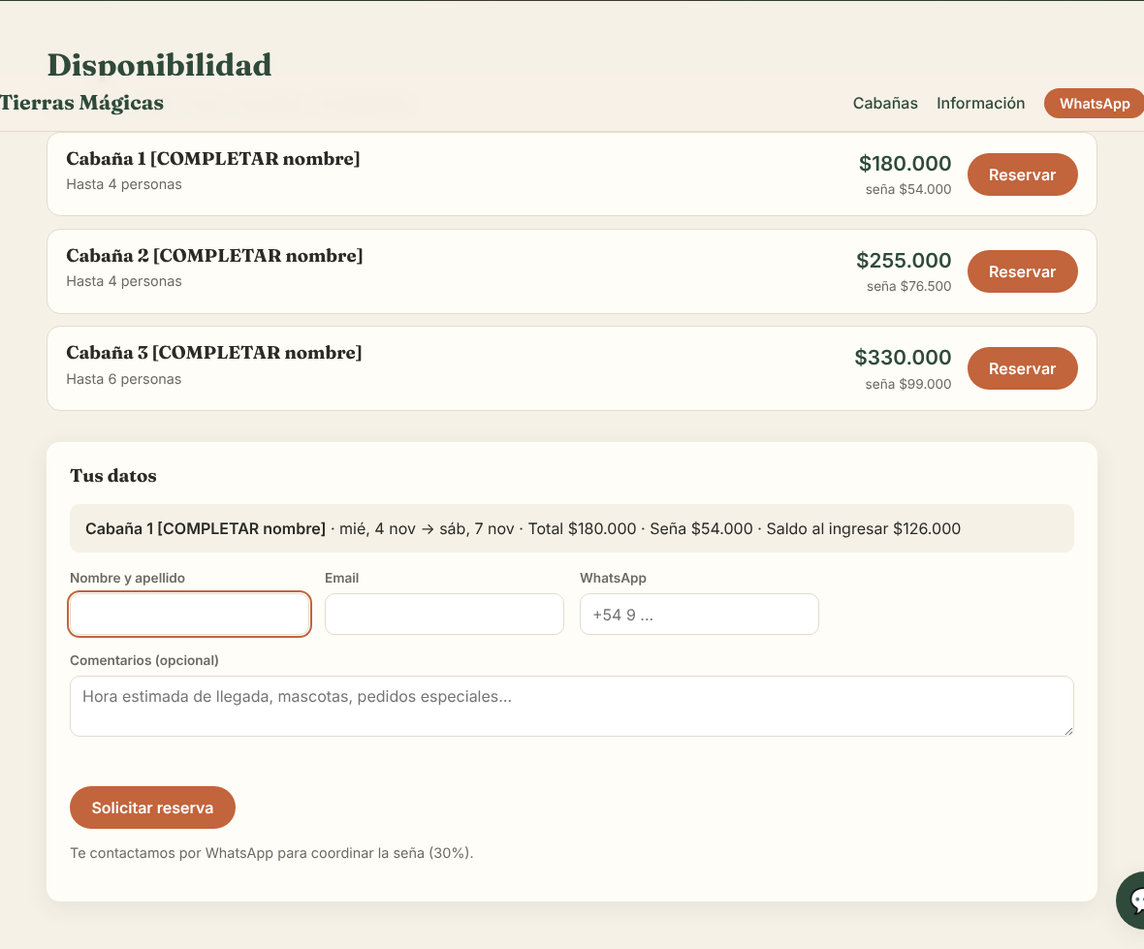
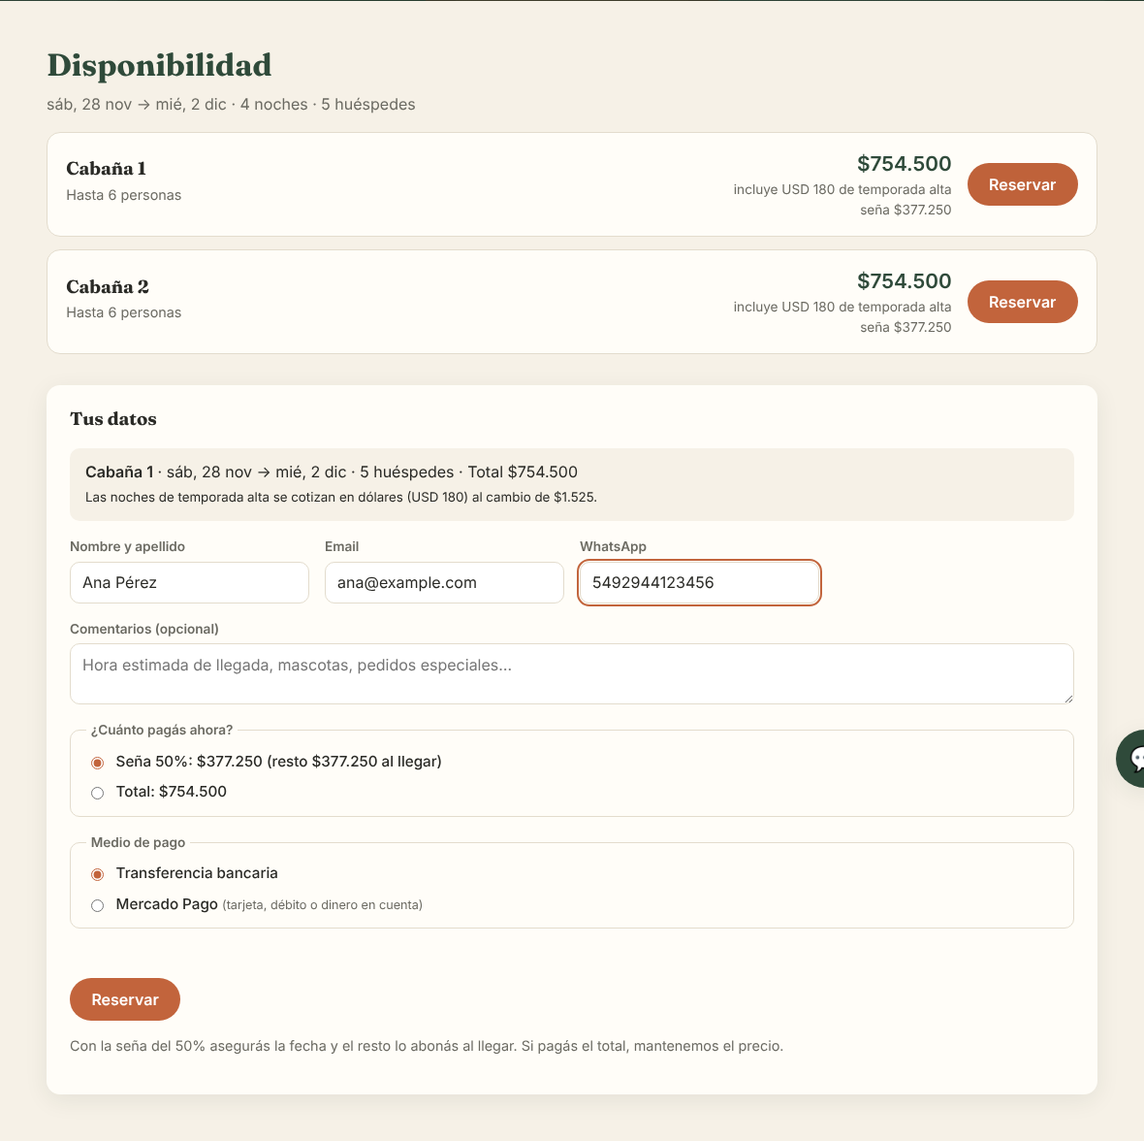
Cargar tarifas reales, seña 50%/pago total y pago por transferencia
- Precio por temporada y cantidad de personas; temporada alta en USD convertida a pesos
- Elección entre seña del 50% o pago total, y entre transferencia o Mercado Pago
- Página de reserva con datos de transferencia y envío de comprobante por WhatsApp
- Secciones de preguntas frecuentes y cómo llegar

Claude-Session: https://claude.ai/code/session_01WZL8qUcGTLzeMQHz79q8xY

diff --git a/src/reservas.js b/src/reservas.js
@@ -4,6 +4,7 @@ import { config, env, cabanaPorId } from "./config.js";
 
 // Con Mercado Pago, una reserva web sin pagar retiene las fechas durante este tiempo.
 // Sin Mercado Pago (modo demo) la solicitud retiene las fechas hasta que el dueño la confirma o cancela.
+// Por transferencia, retiene las fechas durante negocio.retencion_transferencia_horas.
 const RETENCION_PENDIENTE_MIN = 30;
 
 export function hoyISO() {
@@ -24,24 +25,45 @@ function esFecha(s) {
   return typeof s === "string" && /^\d{4}-\d{2}-\d{2}$/.test(s) && !isNaN(new Date(s + "T12:00:00Z"));
 }
 
-function multiplicadorTemporada(fechaISO) {
+function temporada(fechaISO) {
   const md = fechaISO.slice(5); // MM-DD
   for (const t of config.temporadas || []) {
     const dentro = t.desde <= t.hasta ? md >= t.desde && md <= t.hasta : md >= t.desde || md <= t.hasta;
-    if (dentro) return t.multiplicador;
+    if (dentro) return t.id;
   }
-  return 1;
+  return "baja";
+}
+
+// Precio de una noche según temporada y cantidad de huéspedes, en la moneda de la tarifa
+function tarifaNoche(cabana, fechaISO, huespedes) {
+  const tarifas = cabana.tarifas[temporada(fechaISO)] || cabana.tarifas.baja;
+  const escala = tarifas.por_ocupacion.find((e) => huespedes <= e.hasta) || tarifas.por_ocupacion.at(-1);
+  return { moneda: tarifas.moneda, precio: escala.precio };
+}
+
+export function aPesos({ moneda, precio }) {
+  return moneda === "USD" ? Math.round(precio * config.negocio.tipo_cambio_usd) : precio;
+}
+
+// Precio de referencia por noche para mostrar ("desde")
+export function preciosReferencia(cabana) {
+  return Object.fromEntries(
+    Object.entries(cabana.tarifas).map(([t, v]) => [t, { moneda: v.moneda, desde: v.por_ocupacion[0].precio, hasta: v.por_ocupacion.at(-1).precio }])
+  );
 }
 
 export function cotizar(cabana, checkin, checkout, huespedes) {
   let total = 0;
+  let totalUsd = 0;
+  const nochesPor = { alta: 0, baja: 0 };
   for (let f = checkin; f < checkout; f = sumarDias(f, 1)) {
-    total += cabana.precio_noche * multiplicadorTemporada(f);
+    const t = tarifaNoche(cabana, f, huespedes);
+    total += aPesos(t);
+    if (t.moneda === "USD") totalUsd += t.precio;
+    nochesPor[temporada(f) === "baja" ? "baja" : "alta"]++;
   }
-  const extra = Math.max(0, huespedes - 2) * (cabana.precio_huesped_extra || 0) * noches(checkin, checkout);
-  total = Math.round(total + extra);
   const sena = Math.round((total * config.negocio.sena_porcentaje) / 100);
-  return { noches: noches(checkin, checkout), total, sena, saldo: total - sena };
+  return { noches: noches(checkin, checkout), total, sena, saldo: total - sena, total_usd: totalUsd || null, noches_alta: nochesPor.alta, noches_baja: nochesPor.baja };
 }
 
 // Devuelve los rangos ocupados de una cabaña (reservas activas + bloqueos importados/manuales)
@@ -50,9 +72,11 @@ export function ocupaciones(cabanaId, excluirReservaId = null) {
     .prepare(
       `SELECT id, checkin AS desde, checkout AS hasta, estado, nombre, 'web' AS origen FROM reservas
        WHERE cabana_id = ? AND (estado = 'confirmada'
-         OR (estado = 'pendiente_pago' AND (origen = 'manual' OR ? OR creada > datetime('now', ?))))`
+         OR (estado = 'pendiente_pago' AND (origen = 'manual'
+           OR (metodo_pago = 'transferencia' AND creada > datetime('now', ?))
+           OR (metodo_pago = 'mercadopago' AND (? OR creada > datetime('now', ?))))))`
     )
-    .all(cabanaId, env.mpAccessToken ? 0 : 1, `-${RETENCION_PENDIENTE_MIN} minutes`)
+    .all(cabanaId, `-${config.negocio.retencion_transferencia_horas || 48} hours`, env.mpAccessToken ? 0 : 1, `-${RETENCION_PENDIENTE_MIN} minutes`)
     .filter((r) => r.id !== excluirReservaId);
   const bloqueos = db.prepare(`SELECT desde, hasta, origen, resumen FROM bloqueos WHERE cabana_id = ?`).all(cabanaId);
   return [...reservas, ...bloqueos];
@@ -96,7 +120,7 @@ export function buscarDisponibilidad(checkin, checkout, huespedes) {
   };
 }
 
-export function crearReserva({ cabanaId, checkin, checkout, huespedes, nombre, email, telefono, notas, origen = "web" }) {
+export function crearReserva({ cabanaId, checkin, checkout, huespedes, nombre, email, telefono, notas, origen = "web", metodoPago = "mercadopago", modalidad = "sena" }) {
   const cabana = cabanaPorId(cabanaId);
   if (!cabana) throw new Error("Cabaña inexistente.");
   const error = validarRango(checkin, checkout);
@@ -108,17 +132,21 @@ export function crearReserva({ cabanaId, checkin, checkout, huespedes, nombre, e
   if (!nombre?.trim()) throw new Error("Falta el nombre.");
 
   const id = "TM-" + crypto.randomBytes(3).toString("hex").toUpperCase();
-  const { total, sena } = cotizar(cabana, checkin, checkout, huespedes);
+  if (!["mercadopago", "transferencia"].includes(metodoPago)) throw new Error("Medio de pago inválido.");
+  if (modalidad === "total" && !config.negocio.permite_pago_total) modalidad = "sena";
+  const cot = cotizar(cabana, checkin, checkout, huespedes);
+  const total = cot.total;
+  const sena = modalidad === "total" ? cot.total : cot.sena; // monto a pagar ahora
 
   // Verificación + inserción atómica para evitar doble reserva
   db.exec("BEGIN IMMEDIATE");
   try {
     if (!estaLibre(cabanaId, checkin, checkout)) throw new Error("Las fechas elegidas ya no están disponibles.");
     db.prepare(
-      `INSERT INTO reservas (id, cabana_id, checkin, checkout, huespedes, nombre, email, telefono, total, sena, estado, origen, notas)
-       VALUES (?, ?, ?, ?, ?, ?, ?, ?, ?, ?, ?, ?, ?)`
+      `INSERT INTO reservas (id, cabana_id, checkin, checkout, huespedes, nombre, email, telefono, total, sena, estado, origen, notas, metodo_pago, modalidad)
+       VALUES (?, ?, ?, ?, ?, ?, ?, ?, ?, ?, ?, ?, ?, ?, ?)`
     ).run(id, cabanaId, checkin, checkout, huespedes, nombre.trim(), email || null, telefono || null, total, sena,
-      origen === "manual" ? "confirmada" : "pendiente_pago", origen, notas || null);
+      origen === "manual" ? "confirmada" : "pendiente_pago", origen, notas || null, origen === "manual" ? null : metodoPago, modalidad);
     db.exec("COMMIT");
   } catch (e) {
     db.exec("ROLLBACK");
@@ -150,6 +178,7 @@ function generarTareas(reservaId) {
   const yaExisten = db.prepare("SELECT COUNT(*) AS n FROM tareas WHERE reserva_id = ?").get(reservaId).n;
   if (yaExisten) return;
   const ins = db.prepare("INSERT INTO tareas (cabana_id, fecha, tipo, descripcion, reserva_id) VALUES (?, ?, ?, ?, ?)");
-  ins.run(r.cabana_id, r.checkin, "check-in", `Recibir a ${r.nombre} (${r.huespedes} pers.) — cobrar saldo $${(r.total - r.sena).toLocaleString("es-AR")}`, r.id);
+  const saldo = r.total - r.sena;
+  ins.run(r.cabana_id, r.checkin, "check-in", `Recibir a ${r.nombre} (${r.huespedes} pers.) — ${saldo > 0 ? `cobrar saldo $${saldo.toLocaleString("es-AR")}` : "pagado en su totalidad"}`, r.id);
   ins.run(r.cabana_id, r.checkout, "limpieza", `Limpieza tras salida de ${r.nombre}`, r.id);
 }

diff --git a/src/server.js b/src/server.js
@@ -3,7 +3,7 @@ import crypto from "node:crypto";
 import { config, env, cabanaPorId } from "./config.js";
 import { db } from "./db.js";
 import {
-  buscarDisponibilidad, crearReserva, obtenerReserva, confirmarReserva, cancelarReserva, ocupaciones, hoyISO, sumarDias, validarRango,
+  buscarDisponibilidad, crearReserva, obtenerReserva, confirmarReserva, cancelarReserva, ocupaciones, hoyISO, sumarDias, validarRango, preciosReferencia,
 } from "./reservas.js";
 import { sincronizarTodo, exportarICal } from "./ical.js";
 import { mpActivo, crearPreferencia, obtenerPago } from "./mercadopago.js";
@@ -37,9 +37,12 @@ app.get("/api/info", (req, res) => {
   const { negocio } = config;
   res.json({
     negocio: { nombre: negocio.nombre, eslogan: negocio.eslogan, ubicacion: negocio.ubicacion, whatsapp: negocio.whatsapp,
-      instagram: negocio.instagram, check_in: negocio.check_in, check_out: negocio.check_out, sena_porcentaje: negocio.sena_porcentaje,
-      politicas: negocio.politicas, servicios: negocio.servicios },
-    cabanas: config.cabanas.map(({ ical_importar, ...c }) => c),
+      instagram: negocio.instagram, facebook: negocio.facebook, google_maps: negocio.google_maps, check_in: negocio.check_in,
+      check_out: negocio.check_out, sena_porcentaje: negocio.sena_porcentaje, permite_pago_total: negocio.permite_pago_total,
+      tipo_cambio_usd: negocio.tipo_cambio_usd, politicas: negocio.politicas, servicios: negocio.servicios, como_llegar: negocio.como_llegar,
+      preguntas_frecuentes: negocio.preguntas_frecuentes },
+    temporadas: config.temporadas,
+    cabanas: config.cabanas.map(({ ical_importar, tarifas, ...c }) => ({ ...c, precios: preciosReferencia({ tarifas }) })),
     hoy: hoyISO(),
     pagoOnline: mpActivo(),
   });
@@ -58,11 +61,11 @@ app.get("/api/ocupacion/:cabanaId", (req, res) => {
 
 app.post("/api/reservas", limitar(5), async (req, res) => {
   try {
-    const { cabanaId, checkin, checkout, huespedes, nombre, email, telefono, notas } = req.body || {};
+    const { cabanaId, checkin, checkout, huespedes, nombre, email, telefono, notas, metodoPago, modalidad } = req.body || {};
     if (!email || !/^\S+@\S+\.\S+$/.test(email)) throw new Error("Ingresá un email válido.");
     if (!telefono || String(telefono).replace(/\D/g, "").length < 8) throw new Error("Ingresá un teléfono / WhatsApp válido.");
-    const reserva = crearReserva({ cabanaId, checkin, checkout, huespedes, nombre, email, telefono, notas });
-    if (mpActivo()) {
+    const reserva = crearReserva({ cabanaId, checkin, checkout, huespedes, nombre, email, telefono, notas, metodoPago, modalidad });
+    if (reserva.metodo_pago === "mercadopago" && mpActivo()) {
       const pref = await crearPreferencia(reserva);
       db.prepare("UPDATE reservas SET mp_preference_id = ? WHERE id = ?").run(pref.id, reserva.id);
       return res.json({ reserva: reserva.id, pagarEn: pref.init_point });
@@ -91,23 +94,34 @@ app.get("/reserva/:id", async (req, res) => {
   }
   const c = cabanaPorId(r.cabana_id);
   const n = config.negocio;
+  const t = n.transferencia || {};
+  const porTransferencia = r.metodo_pago === "transferencia" || (r.metodo_pago === "mercadopago" && !mpActivo());
+  const concepto = r.modalidad === "total" ? "el total" : `la seña (${n.sena_porcentaje}%)`;
   const estado = {
     confirmada: ["✅ Reserva confirmada", "¡Te esperamos! Te escribimos por WhatsApp unos días antes con las indicaciones de llegada."],
-    pendiente_pago: mpActivo()
-      ? ["⏳ Pago pendiente", "Todavía no recibimos la confirmación del pago. Si ya pagaste, puede tardar unos minutos."]
-      : ["📝 Solicitud recibida", "Te contactamos por WhatsApp para coordinar el pago de la seña y confirmar la reserva."],
+    pendiente_pago: porTransferencia
+      ? ["📝 Reserva pendiente de pago", `Para confirmarla, transferí ${concepto} y envianos el comprobante por WhatsApp. Guardamos las fechas durante ${n.retencion_transferencia_horas || 48} horas.`]
+      : ["⏳ Pago pendiente", "Todavía no recibimos la confirmación del pago. Si ya pagaste, puede tardar unos minutos."],
     cancelada: ["❌ Reserva cancelada", "Si creés que es un error, escribinos."],
   }[r.estado];
-  const msj = encodeURIComponent(`Hola! Tengo la reserva ${r.id} en ${c.nombre} del ${r.checkin} al ${r.checkout}.`);
+  const msj = encodeURIComponent(`Hola! Tengo la reserva ${r.id} en ${c.nombre} del ${r.checkin} al ${r.checkout}.${r.estado === "pendiente_pago" && porTransferencia ? " Te envío el comprobante de la transferencia." : ""}`);
+  const datosTransferencia = r.estado === "pendiente_pago" && porTransferencia
+    ? `<div class="transferencia"><h2>Datos para transferir ${pesos(r.sena)}</h2><dl>
+<dt>Alias</dt><dd>${esc(t.alias)}</dd><dt>CBU</dt><dd>${esc(t.cbu)}</dd><dt>Titular</dt><dd>${esc(t.titular)}</dd><dt>Banco</dt><dd>${esc(t.banco)}</dd>
+<dt>Concepto</dt><dd>Reserva ${esc(r.id)}</dd></dl></div>`
+    : "";
   res.send(`<!doctype html><html lang="es"><head><meta charset="utf-8"><meta name="viewport" content="width=device-width,initial-scale=1">
-<title>Reserva ${esc(r.id)} · ${esc(n.nombre)}</title><link rel="stylesheet" href="/estilos.css"></head>
+<title>Reserva ${esc(r.id)} · ${esc(n.nombre)}</title>
+<link href="https://fonts.googleapis.com/css2?family=Fraunces:opsz,wght@9..144,700&family=Inter:wght@400;500;600&display=swap" rel="stylesheet"><link rel="stylesheet" href="/estilos.css"></head>
 <body class="pagina-reserva"><main class="tarjeta">
 <a href="/" class="marca">${esc(n.nombre)}</a>
 <h1>${estado[0]}</h1><p>${estado[1]}</p>
+${datosTransferencia}
 <dl><dt>Código</dt><dd>${esc(r.id)}</dd><dt>Cabaña</dt><dd>${esc(c.nombre)}</dd>
-<dt>Ingreso</dt><dd>${esc(r.checkin)} desde ${esc(n.check_in)}</dd><dt>Salida</dt><dd>${esc(r.checkout)} hasta ${esc(n.check_out)}</dd>
-<dt>Huéspedes</dt><dd>${r.huespedes}</dd><dt>Total</dt><dd>${pesos(r.total)}</dd><dt>Seña</dt><dd>${pesos(r.sena)}</dd><dt>Saldo al ingresar</dt><dd>${pesos(r.total - r.sena)}</dd></dl>
-<a class="boton" href="https://wa.me/${esc(n.whatsapp)}?text=${msj}">Escribinos por WhatsApp</a>
+<dt>Ingreso</dt><dd>${esc(r.checkin)} desde las ${esc(n.check_in)}</dd><dt>Salida</dt><dd>${esc(r.checkout)} hasta las ${esc(n.check_out)}</dd>
+<dt>Huéspedes</dt><dd>${r.huespedes}</dd><dt>Total</dt><dd>${pesos(r.total)}</dd>
+<dt>${r.modalidad === "total" ? "Pago total" : "Seña"}</dt><dd>${pesos(r.sena)}</dd><dt>Saldo al ingresar</dt><dd>${pesos(r.total - r.sena)}</dd></dl>
+<a class="boton" href="https://wa.me/${esc(n.whatsapp)}?text=${msj}">${r.estado === "pendiente_pago" && porTransferencia ? "Enviar comprobante por WhatsApp" : "Escribinos por WhatsApp"}</a>
 </main></body></html>`);
 });
 

diff --git a/public/app.js b/public/app.js
@@ -16,13 +16,15 @@ async function iniciar() {
   $("#btn-wa-header").href = wa;
   $("#btn-wa-pie").href = wa;
   $("#link-ig").href = `https://instagram.com/${n.instagram}`;
+  $("#link-fb").href = `https://facebook.com/${n.facebook}`;
+  $("#link-maps").href = n.google_maps;
+  $("#como-llegar").textContent = n.como_llegar.replace(/\s*Ubicación en Google Maps:.*$/, "");
+  $("#preguntas").innerHTML = n.preguntas_frecuentes.map((f) => `<details><summary>${esc(f.p)}</summary><p>${esc(f.r)}</p></details>`).join("");
+  $("#op-modalidad").hidden = !n.permite_pago_total;
   $("#servicios").innerHTML = n.servicios.map((s) => `<li>${esc(s)}</li>`).join("");
   $("#politicas").innerHTML = n.politicas.map((s) => `<li>${esc(s)}</li>`).join("");
   $("#horarios").textContent = `Check-in desde las ${n.check_in} · Check-out hasta las ${n.check_out}`;
-  $("#nota-pago").textContent = info.pagoOnline
-    ? `Pagás ahora el ${n.sena_porcentaje}% con Mercado Pago y el saldo al llegar.`
-    : `Te contactamos por WhatsApp para coordinar la seña (${n.sena_porcentaje}%).`;
-  $("#btn-pagar").textContent = info.pagoOnline ? "Pagar seña con Mercado Pago" : "Solicitar reserva";
+  $("#nota-pago").textContent = `Con la seña del ${n.sena_porcentaje}% asegurás la fecha y el resto lo abonás al llegar. Si pagás el total, mantenemos el precio.`;
 
   $("#grilla-cabanas").innerHTML = info.cabanas
     .map(
@@ -32,7 +34,8 @@ async function iniciar() {
           <h3>${esc(c.nombre)}</h3>
           <p>${esc(c.descripcion)}</p>
           <p class="meta">Hasta ${c.capacidad} personas · mínimo ${c.minimo_noches} noches</p>
-          <p class="precio">desde <strong>${pesos(c.precio_noche)}</strong> / noche</p>
+          <p class="precio">Temporada baja: <strong>${pesos(c.precios.baja.desde)}</strong> / noche${c.precios.baja.hasta !== c.precios.baja.desde ? ` <small>(${pesos(c.precios.baja.hasta)} de 5 a 6 personas)</small>` : ""}</p>
+          ${c.precios.alta ? `<p class="precio">Temporada alta: <strong>${c.precios.alta.moneda === "USD" ? "USD " + c.precios.alta.desde : pesos(c.precios.alta.desde)}</strong> / noche</p>` : ""}
         </div>
       </article>`
     )
@@ -83,7 +86,7 @@ async function buscar() {
               <div><h3>${esc(c.nombre)}</h3><p class="meta">Hasta ${c.capacidad} personas</p></div>
               ${
                 c.disponible
-                  ? `<div class="monto"><strong>${pesos(c.total)}</strong><span>seña ${pesos(c.sena)}</span></div>
+                  ? `<div class="monto"><strong>${pesos(c.total)}</strong>${c.total_usd ? `<span>incluye USD ${c.total_usd} de temporada alta</span>` : ""}<span>seña ${pesos(c.sena)}</span></div>
                      <button class="boton" data-elegir="${esc(c.id)}">Reservar</button>`
                   : `<div class="monto"><span>No disponible (${esc(c.motivo)})</span></div>`
               }
@@ -104,7 +107,10 @@ $("#resultados").addEventListener("click", (e) => {
   const id = e.target.dataset?.elegir;
   if (!id) return;
   eleccion = busqueda.cabanas.find((c) => c.id === id);
-  $("#detalle-eleccion").innerHTML = `<strong>${esc(eleccion.nombre)}</strong> · ${fechaLarga(busqueda.checkin)} → ${fechaLarga(busqueda.checkout)} · Total ${pesos(eleccion.total)} · Seña ${pesos(eleccion.sena)} · Saldo al ingresar ${pesos(eleccion.saldo)}`;
+  $("#detalle-eleccion").innerHTML = `<strong>${esc(eleccion.nombre)}</strong> · ${fechaLarga(busqueda.checkin)} → ${fechaLarga(busqueda.checkout)} · ${busqueda.huespedes} huéspedes · Total ${pesos(eleccion.total)}` +
+    (eleccion.total_usd ? `<br><small>Las noches de temporada alta se cotizan en dólares (USD ${eleccion.total_usd}) al cambio de ${pesos(info.negocio.tipo_cambio_usd)}.</small>` : "");
+  $("#txt-sena").textContent = `Seña ${info.negocio.sena_porcentaje}%: ${pesos(eleccion.sena)} (resto ${pesos(eleccion.saldo)} al llegar)`;
+  $("#txt-total").textContent = `Total: ${pesos(eleccion.total)}`;
   const form = $("#form-reserva");
   form.hidden = false;
   form.scrollIntoView({ behavior: "smooth" });
@@ -124,6 +130,7 @@ $("#form-reserva").addEventListener("submit", async (e) => {
       body: JSON.stringify({
         cabanaId: eleccion.id, checkin: busqueda.checkin, checkout: busqueda.checkout, huespedes: busqueda.huespedes,
         nombre: f.nombre.value, email: f.email.value, telefono: f.telefono.value, notas: f.notas.value,
+        metodoPago: f.metodoPago.value, modalidad: f.modalidad.value,
       }),
     }).then((r) => r.json());
     if (res.error) throw new Error(res.error);

diff --git a/public/index.html b/public/index.html
@@ -15,6 +15,7 @@
     <nav>
       <a href="#cabanas">Cabañas</a>
       <a href="#info">Información</a>
+      <a href="#llegar">Cómo llegar</a>
       <a class="boton chico" id="btn-wa-header" target="_blank" rel="noopener">WhatsApp</a>
     </nav>
   </header>
@@ -49,8 +50,18 @@
           <label>WhatsApp<input name="telefono" type="tel" required autocomplete="tel" placeholder="+54 9 ..."></label>
           <label class="ancho">Comentarios (opcional)<textarea name="notas" rows="2" placeholder="Hora estimada de llegada, mascotas, pedidos especiales…"></textarea></label>
         </div>
+        <fieldset class="opciones" id="op-modalidad">
+          <legend>¿Cuánto pagás ahora?</legend>
+          <label class="opcion"><input type="radio" name="modalidad" value="sena" checked><span id="txt-sena">Seña</span></label>
+          <label class="opcion"><input type="radio" name="modalidad" value="total"><span id="txt-total">Total</span></label>
+        </fieldset>
+        <fieldset class="opciones">
+          <legend>Medio de pago</legend>
+          <label class="opcion"><input type="radio" name="metodoPago" value="transferencia" checked><span>Transferencia bancaria</span></label>
+          <label class="opcion"><input type="radio" name="metodoPago" value="mercadopago"><span>Mercado Pago <small>(tarjeta, débito o dinero en cuenta)</small></span></label>
+        </fieldset>
         <p class="error" id="error-reserva" role="alert"></p>
-        <button class="boton" type="submit" id="btn-pagar">Pagar seña</button>
+        <button class="boton" type="submit" id="btn-pagar">Reservar</button>
         <p class="nota" id="nota-pago"></p>
       </form>
     </section>
@@ -71,11 +82,22 @@
         <ul id="politicas"></ul>
       </div>
     </section>
+
+    <section id="faq" class="seccion">
+      <h2>Preguntas frecuentes</h2>
+      <div id="preguntas" class="preguntas"></div>
+    </section>
+
+    <section id="llegar" class="seccion">
+      <h2>Cómo llegar</h2>
+      <p id="como-llegar"></p>
+      <a class="boton sec" id="link-maps" target="_blank" rel="noopener">Ver en Google Maps</a>
+    </section>
   </main>
 
   <footer class="pie">
     <p><span data-negocio="nombre"></span> · <span data-negocio="ubicacion"></span></p>
-    <p><a id="btn-wa-pie" target="_blank" rel="noopener">WhatsApp</a> · <a id="link-ig" target="_blank" rel="noopener">Instagram</a></p>
+    <p><a id="btn-wa-pie" target="_blank" rel="noopener">WhatsApp</a> · <a id="link-ig" target="_blank" rel="noopener">Instagram</a> · <a id="link-fb" target="_blank" rel="noopener">Facebook</a></p>
   </footer>
 
   <!-- Chat con asistente -->

diff --git a/src/asistente.js b/src/asistente.js
@@ -34,13 +34,15 @@ function sistema(modo) {
     ubicacion: n.ubicacion,
     check_in: n.check_in,
     check_out: n.check_out,
-    sena: `${n.sena_porcentaje}% para confirmar, pagable con Mercado Pago`,
+    pago: `Seña del ${n.sena_porcentaje}% para asegurar la fecha (o un día de adelanto) y el resto al llegar; también se puede pagar el total y se mantiene el precio. Medios: transferencia bancaria o Mercado Pago.`,
+    temporada_alta: config.temporadas.map((t) => `${t.nombre}: ${t.desde} a ${t.hasta} (MM-DD)`),
+    tarifas_temporada_alta: "En temporada alta el precio es en dólares y se cobra en pesos al tipo de cambio vigente.",
     politicas: n.politicas,
     servicios: n.servicios,
     como_llegar: n.como_llegar,
     preguntas_frecuentes: n.preguntas_frecuentes,
     cabanas: config.cabanas.map((c) => ({
-      nombre: c.nombre, capacidad: c.capacidad, descripcion: c.descripcion, minimo_noches: c.minimo_noches,
+      nombre: c.nombre, capacidad: c.capacidad, descripcion: c.descripcion, minimo_noches: c.minimo_noches, tarifas_por_noche: c.tarifas,
     })),
   };
   const canal =
@@ -55,7 +57,7 @@ Reglas:
 - Para disponibilidad y precios usá siempre la herramienta consultar_disponibilidad; nunca inventes precios ni fechas libres.
 - Si falta un dato (fechas o cantidad de personas), preguntalo.
 - Si algo no está en la información del negocio o un dato figura como [COMPLETAR], decí que lo confirma el anfitrión; no lo inventes.
-- Los montos son en pesos argentinos; escribilos con formato $85.000.
+- Los totales que devuelve la herramienta están en pesos argentinos; escribilos con formato $145.000. Si la estadía incluye temporada alta, aclará que esas noches se cotizan en dólares.
 - No confirmes reservas: la reserva se confirma solo al pagar la seña.
 
 Información del negocio:

diff --git a/public/estilos.css b/public/estilos.css
@@ -167,3 +167,23 @@ input:focus, textarea:focus { outline: 2px solid var(--tierra); outline-offset: 
 .tarjeta dl { display: grid; grid-template-columns: auto 1fr; gap: 0.4rem 1rem; margin: 1.5rem 0; }
 .tarjeta dt { color: var(--suave); }
 .tarjeta dd { margin: 0; font-weight: 600; }
+
+/* Opciones de pago */
+.opciones { border: 1px solid var(--borde); border-radius: 10px; padding: 0.6rem 1rem 0.8rem; margin: 0 0 1rem; display: grid; gap: 0.5rem; }
+.opciones legend { font-weight: 600; color: var(--suave); font-size: 0.85rem; padding: 0 0.3rem; }
+.opcion { display: flex; gap: 0.6rem; align-items: center; font-size: 0.95rem; font-weight: 500; color: var(--texto); cursor: pointer; }
+.opcion input { width: auto; accent-color: var(--tierra); }
+.opcion small { color: var(--suave); font-weight: 400; }
+.precio { margin: 0.2rem 0; }
+.precio small { color: var(--suave); }
+
+/* Preguntas frecuentes */
+.preguntas { display: grid; gap: 0.6rem; }
+.preguntas details { background: var(--papel); border-radius: 10px; padding: 0.8rem 1rem; border: 1px solid var(--borde); }
+.preguntas summary { font-weight: 600; cursor: pointer; }
+.preguntas p { margin: 0.5rem 0 0; }
+
+/* Datos de transferencia */
+.transferencia { background: var(--arena); border-radius: 10px; padding: 1rem 1.2rem; margin-top: 1rem; }
+.transferencia h2 { font-size: 1.1rem; margin: 0; color: var(--bosque); }
+.transferencia dl { margin: 0.8rem 0 0; }

diff --git a/src/db.js b/src/db.js
@@ -59,3 +59,8 @@ db.exec(`
     mensaje TEXT
   );
 `);
+
+// Migraciones simples: columnas agregadas después de la primera versión
+const columnas = db.prepare("PRAGMA table_info(reservas)").all().map((c) => c.name);
+if (!columnas.includes("metodo_pago")) db.exec("ALTER TABLE reservas ADD COLUMN metodo_pago TEXT"); // mercadopago | transferencia
+if (!columnas.includes("modalidad")) db.exec("ALTER TABLE reservas ADD COLUMN modalidad TEXT NOT NULL DEFAULT 'sena'"); // sena | total

diff --git a/src/mercadopago.js b/src/mercadopago.js
@@ -31,7 +31,7 @@ export async function crearPreferencia(reserva) {
       items: [
         {
           id: reserva.id,
-          title: `Seña ${cabana.nombre} — ${reserva.checkin} a ${reserva.checkout}`,
+          title: `${reserva.modalidad === "total" ? "Pago total" : "Seña"} ${cabana.nombre} — ${reserva.checkin} a ${reserva.checkout}`,
           quantity: 1,
           currency_id: "ARS",
           unit_price: reserva.sena,

diff --git a/README.md b/README.md
@@ -4,7 +4,7 @@ Este es el MVP propio (opción A) con las funciones principales de ClimberHost, 
 
 | Módulo | Qué hace | Estado |
 |---|---|---|
-| Web de reservas | Búsqueda por fechas y huéspedes, precio por temporada, seña %, formulario | ✅ Probado |
+| Web de reservas | Búsqueda por fechas y huéspedes, precio por temporada y cantidad de personas (temporada alta en USD, cobrada en pesos), seña 50% o pago total, transferencia o Mercado Pago | ✅ Probado |
 | Cobro de seña | Mercado Pago Checkout Pro y webhook que confirma la reserva al aprobarse el pago | ⚠ Implementado; probar con credenciales de prueba |
 | Sincronización Airbnb / Booking | Importa sus calendarios iCal cada 15 min y exporta el calendario propio | ✅ Probado con un iCal local de ejemplo |
 | Anti doble reserva | Verificación en una sola transacción al crear la reserva | ✅ Probado |
